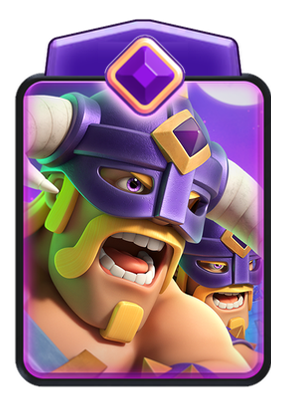
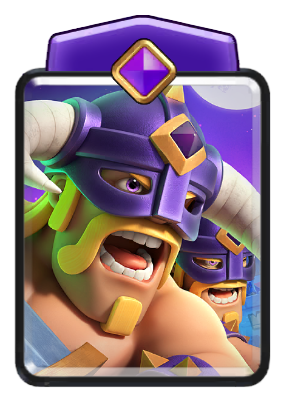
Add Ice Wizard hero and Minion Giant art, replace Elite Barbarians evo
26000023-hero and 26000107 are new tiles. 26000043-evo is the same card
art re-fetched from a different source, so the pixels differ from the
file it replaces without the card itself having changed. All three are
285x420 and oxipng -o max --strip safe, matching the rest of the mirror.

Guarantee 5 in CLAUDE.md moves to 182 PNGs and 123 playable cards, with
the hero variant count going 16 -> 17.

diff --git a/.claude/CLAUDE.md b/.claude/CLAUDE.md
@@ -55,8 +55,8 @@ Break one of these and the app misbehaves in a way tests may not catch.
    (450k/month) and a per-player read at one tick a minute burns ~43.8k of them per player per
    month. Writes stay per-tag, so concurrent polls never share a value.
 5. **`images/` is a deploy-required asset.** The renderer hard-depends on it in production; CDN
-   fetch is only a fallback for a card id with no local file. 180 PNGs (285×420): `<id>.png` plus 42
-   `-evo` and 16 `-hero` variants, covering all 122 playable cards.
+   fetch is only a fallback for a card id with no local file. 182 PNGs (285×420): `<id>.png` plus 42
+   `-evo` and 17 `-hero` variants, covering all 123 playable cards.
 6. **Everything logs through `src/log.ts`.** It is the only module that may import
    `@std/fmt/colors`, so every paint call happens after its `setColorEnabled` gate.
 7. **Every webhook body serializes through `payloadJson` (`discord.ts`).** It is what attaches
